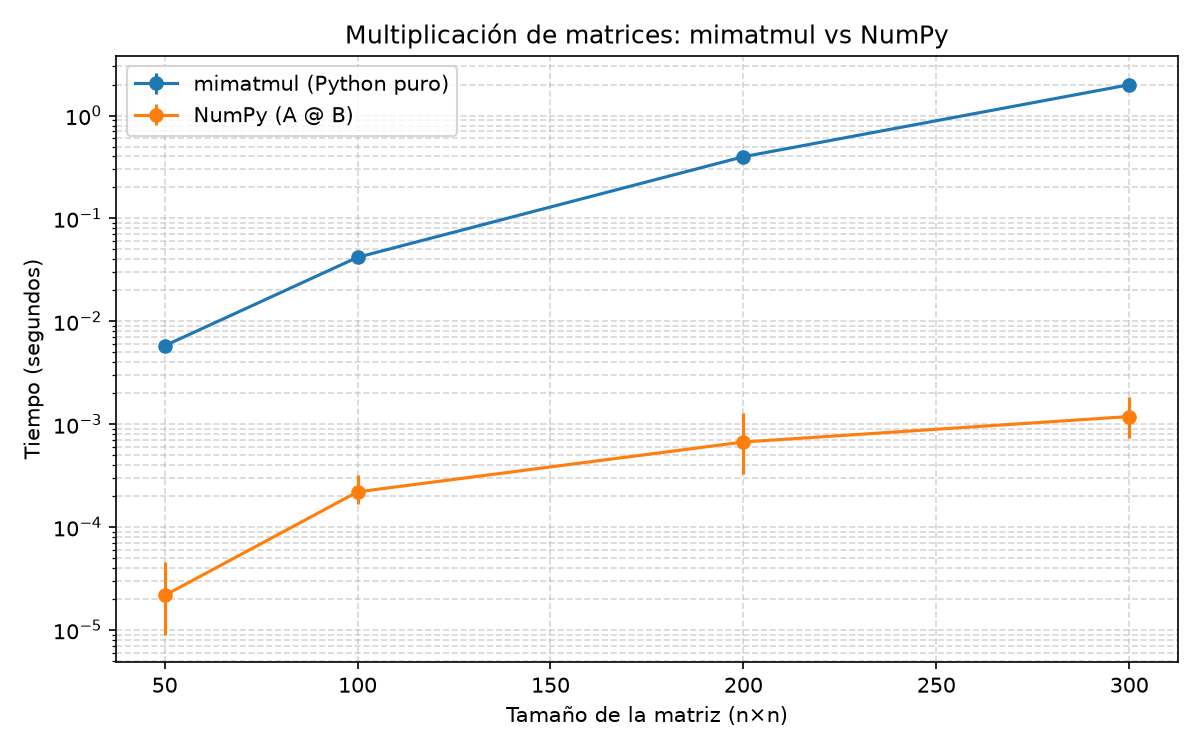
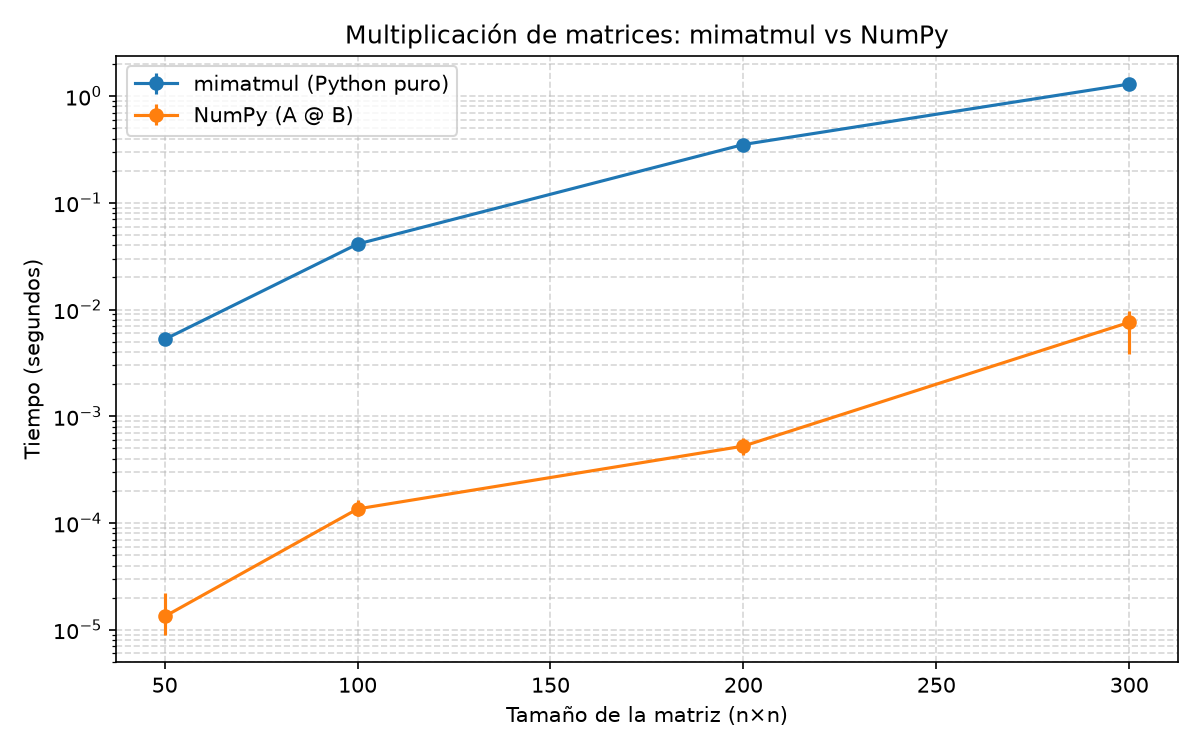
se completa README con resultados, observaciones y uso de OpenCode

Changed region(s): [[0.0308, 0.0613, 0.9867, 0.828], [0.0617, 0.1227, 0.0925, 0.1533], [0.0308, 0.7053, 0.0617, 0.736]]

diff --git a/README.md b/README.md
@@ -4,25 +4,27 @@
 
 Implementar una función propia de multiplicación de matrices (`mimatmul`)
 en Python puro, comparar su rendimiento con `numpy.matmul` mediante un
-benchmark sencillo y documentar el resultado (tiempos, uso de CPU/RAM y
-gráfico final en P0E2).
+benchmark y documentar los resultados (tiempos, uso de CPU/RAM/GPU y
+gráfico final).
 
-Esta entrega (P0E1) cubre: configuración del ambiente, información básica
-del computador y una primera versión de la implementación con una prueba
-inicial.
+Este repositorio contiene la entrega P0E1 y P0E2 del Proyecto 0.
 
-## Sistema operativo y versión de Python
+## Repositorio
 
-- Sistema operativo: Windows 11 (ver detalles en `data/system_info.json`)
-- Versión de Python: 3.14.7
+```bash
+git clone https://github.com/matiascleiva/P0-Campos-Matias.git
+cd P0-Campos-Matias
+```
 
-## Crear y activar el ambiente virtual
+## Ambiente y ejecución
 
-Desde la raíz del repositorio:
+### Crear el ambiente virtual
 
 ```bash
 python -m venv .venv
 ```
+
+### Activar el ambiente
 
 Windows:
 
@@ -36,22 +38,139 @@ Linux / macOS:
 source .venv/bin/activate
 ```
 
-## Instalar dependencias
+### Instalar dependencias
 
-Con el ambiente virtual activado:
+Con el ambiente activado:
 
 ```bash
 pip install -r requirements.txt
 ```
 
+### Ejecutar las pruebas
+
+```bash
+python -m pytest
+```
+
+### Ejecutar el benchmark
+
+```bash
+python src/benchmark.py
+```
+
+El benchmark mide `mimatmul` vs NumPy (`A @ B`) para matrices cuadradas de
+tamaños 50, 100, 200 y 300, con 3 repeticiones por tamaño y método y una
+ejecución de calentamiento. Genera:
+
+- `data/benchmark_results.csv` — cada medición individual;
+- `figures/benchmark.png` — gráfico de tiempos.
+
+### Información del computador
+
+```bash
+python src/system_info.py
+```
+
+Genera `data/system_info.json`.
+
+## Información del computador
+
+Características principales del equipo utilizado para las mediciones:
+
+| Característica | Valor |
+|---|---|
+| Sistema operativo | Windows 11 |
+| Arquitectura | AMD64 |
+| Procesador | Intel (Family 6, Model 154) |
+| Núcleos físicos | 8 |
+| Procesadores lógicos | 12 |
+| RAM total | 16.89 GB |
+| GPU | NVIDIA GeForce RTX 3060 Laptop + Intel UHD Graphics |
+| Versión de Python | 3.14.7 |
+
+## Resultados del benchmark
+
+Los tiempos completos están en `data/benchmark_results.csv` y el gráfico en
+`figures/benchmark.png`. Resumen de tiempos promedio por método:
+
+| Tamaño (n×n) | mimatmul | NumPy |
+|---|---|---|
+| 50 | ~5 ms | ~0.01 ms |
+| 100 | ~41 ms | ~0.14 ms |
+| 200 | ~0.35 s | ~0.5 ms |
+| 300 | ~1.3 s | ~7.6 ms |
+
+## Observaciones de rendimiento
+
+**¿mimatmul parece utilizar uno o varios núcleos?**
+
+Uno. Durante las mediciones el proceso usó en promedio 0.88 núcleos (máximo
+1.2). Python puro está limitado por el GIL, que solo permite ejecutar un hilo
+de Python a la vez por proceso.
+
+**¿NumPy parece utilizar uno o varios núcleos?**
+
+Varios. El mismo proceso llegó a usar en promedio 3.5 núcleos con picos
+cercanos a los 12 lógicos. NumPy delega la operación en su biblioteca BLAS
+(OpenBLAS), que paraleliza la multiplicación en múltiples hilos.
+
+**¿Por qué NumPy es más rápido?**
+
+Por tres motivos principales: (1) el bucle crítico está escrito en C/Fortran
+optimizado, no en Python interpretado; (2) usa instrucciones SIMD del
+procesador y un algoritmo de multiplicación en bloques más eficiente que el
+bucle triple ingenuo; (3) aprovecha varios núcleos, mientras que mimatmul queda
+limitado a uno por el GIL.
+
+**¿Por qué las repeticiones no entregan exactamente el mismo tiempo?**
+
+Porque el tiempo de ejecución depende del estado del sistema: otros procesos
+en segundo plano, cambios en la frecuencia del CPU, caché, y el arranque de
+los hilos de BLAS en la primera ejecución. Por eso el benchmark toma varias
+repeticiones y reporta cada una, en lugar de un único valor.
+
+**¿Cuál es aproximadamente la matriz cuadrada de mayor tamaño que cabría en
+la RAM libre del computador?**
+
+Con 5.62 GB libres y 8 bytes por elemento float64, una sola matriz cabría
+hasta n ≈ 26 500. Como una multiplicación necesita al menos A, B y el
+resultado C, un tamaño realista es del orden de n ≈ 15 000 (unos 4.5 GB en
+las tres matrices).
+
+## Uso de OpenCode
+
+**¿Qué parte realizó correctamente el agente?**
+
+Configuró el ambiente (Python, Git, GitHub, OpenCode, ambiente virtual),
+creó la estructura del repositorio, implementó `mimatmul`, las pruebas, el
+benchmark y el gráfico, y mantuvo el trabajo en commits incrementales.
+
+**¿Qué parte tuvo que corregir o modificar?**
+
+El ajuste de los tamaños del benchmark (inicialmente eran demasiado
+pequeños), la corrección del `.gitignore` (excluía el CSV de resultados que
+sí debe subirse), la visibilidad del repositorio en GitHub y su traslado
+fuera de la carpeta sincronizada de OneDrive.
+
+**¿Qué archivo comprende mejor después del proyecto?**
+
+`src/mimatmul.py`: es el más corto y claro. La función verifica que las
+dimensiones sean compatibles (lanza `ValueError` si no), y luego hace tres
+bucles anidados que acumulan `A[i][t] * B[t][j]` en la posición `[i][j]` del
+resultado. Se puede seguir con papel y lápiz, y lo validé comparándolo con
+NumPy en las pruebas.
+
+**¿Qué parte del código todavía le resulta menos clara?**
+
+`src/benchmark.py`, en especial la generación del gráfico: agrupar los datos
+del CSV con diccionarios anidados para sacar promedios, el uso de `errorbar`
+con barras de error asimétricas, y los detalles de la librería matplotlib
+(figuras, ejes, leyenda). Es código de librería que todavía no me resulta
+natural.
+
 ## Estado actual del proyecto
 
-- Ambiente configurado (Python, Git, GitHub, OpenCode).
-- Información del computador disponible en `data/system_info.json`
-  (generada por `src/system_info.py`).
-- Primera versión de `src/mimatmul.py` (multiplicación de matrices en
-  Python puro, caso general cuadrado y rectangular).
-- Prueba inicial en `tests/test_mimatmul.py`.
-
-Pendiente para P0E2: benchmark definitivo, datos finales, gráfico completo
-y documentación final.
+- P0E1: ambiente configurado, información del computador y primera versión
+  de `mimatmul` con pruebas.
+- P0E2: `mimatmul` completa, pruebas ampliadas (5 casos), benchmark con
+  mediciones reales, CSV de resultados y gráfico final.
